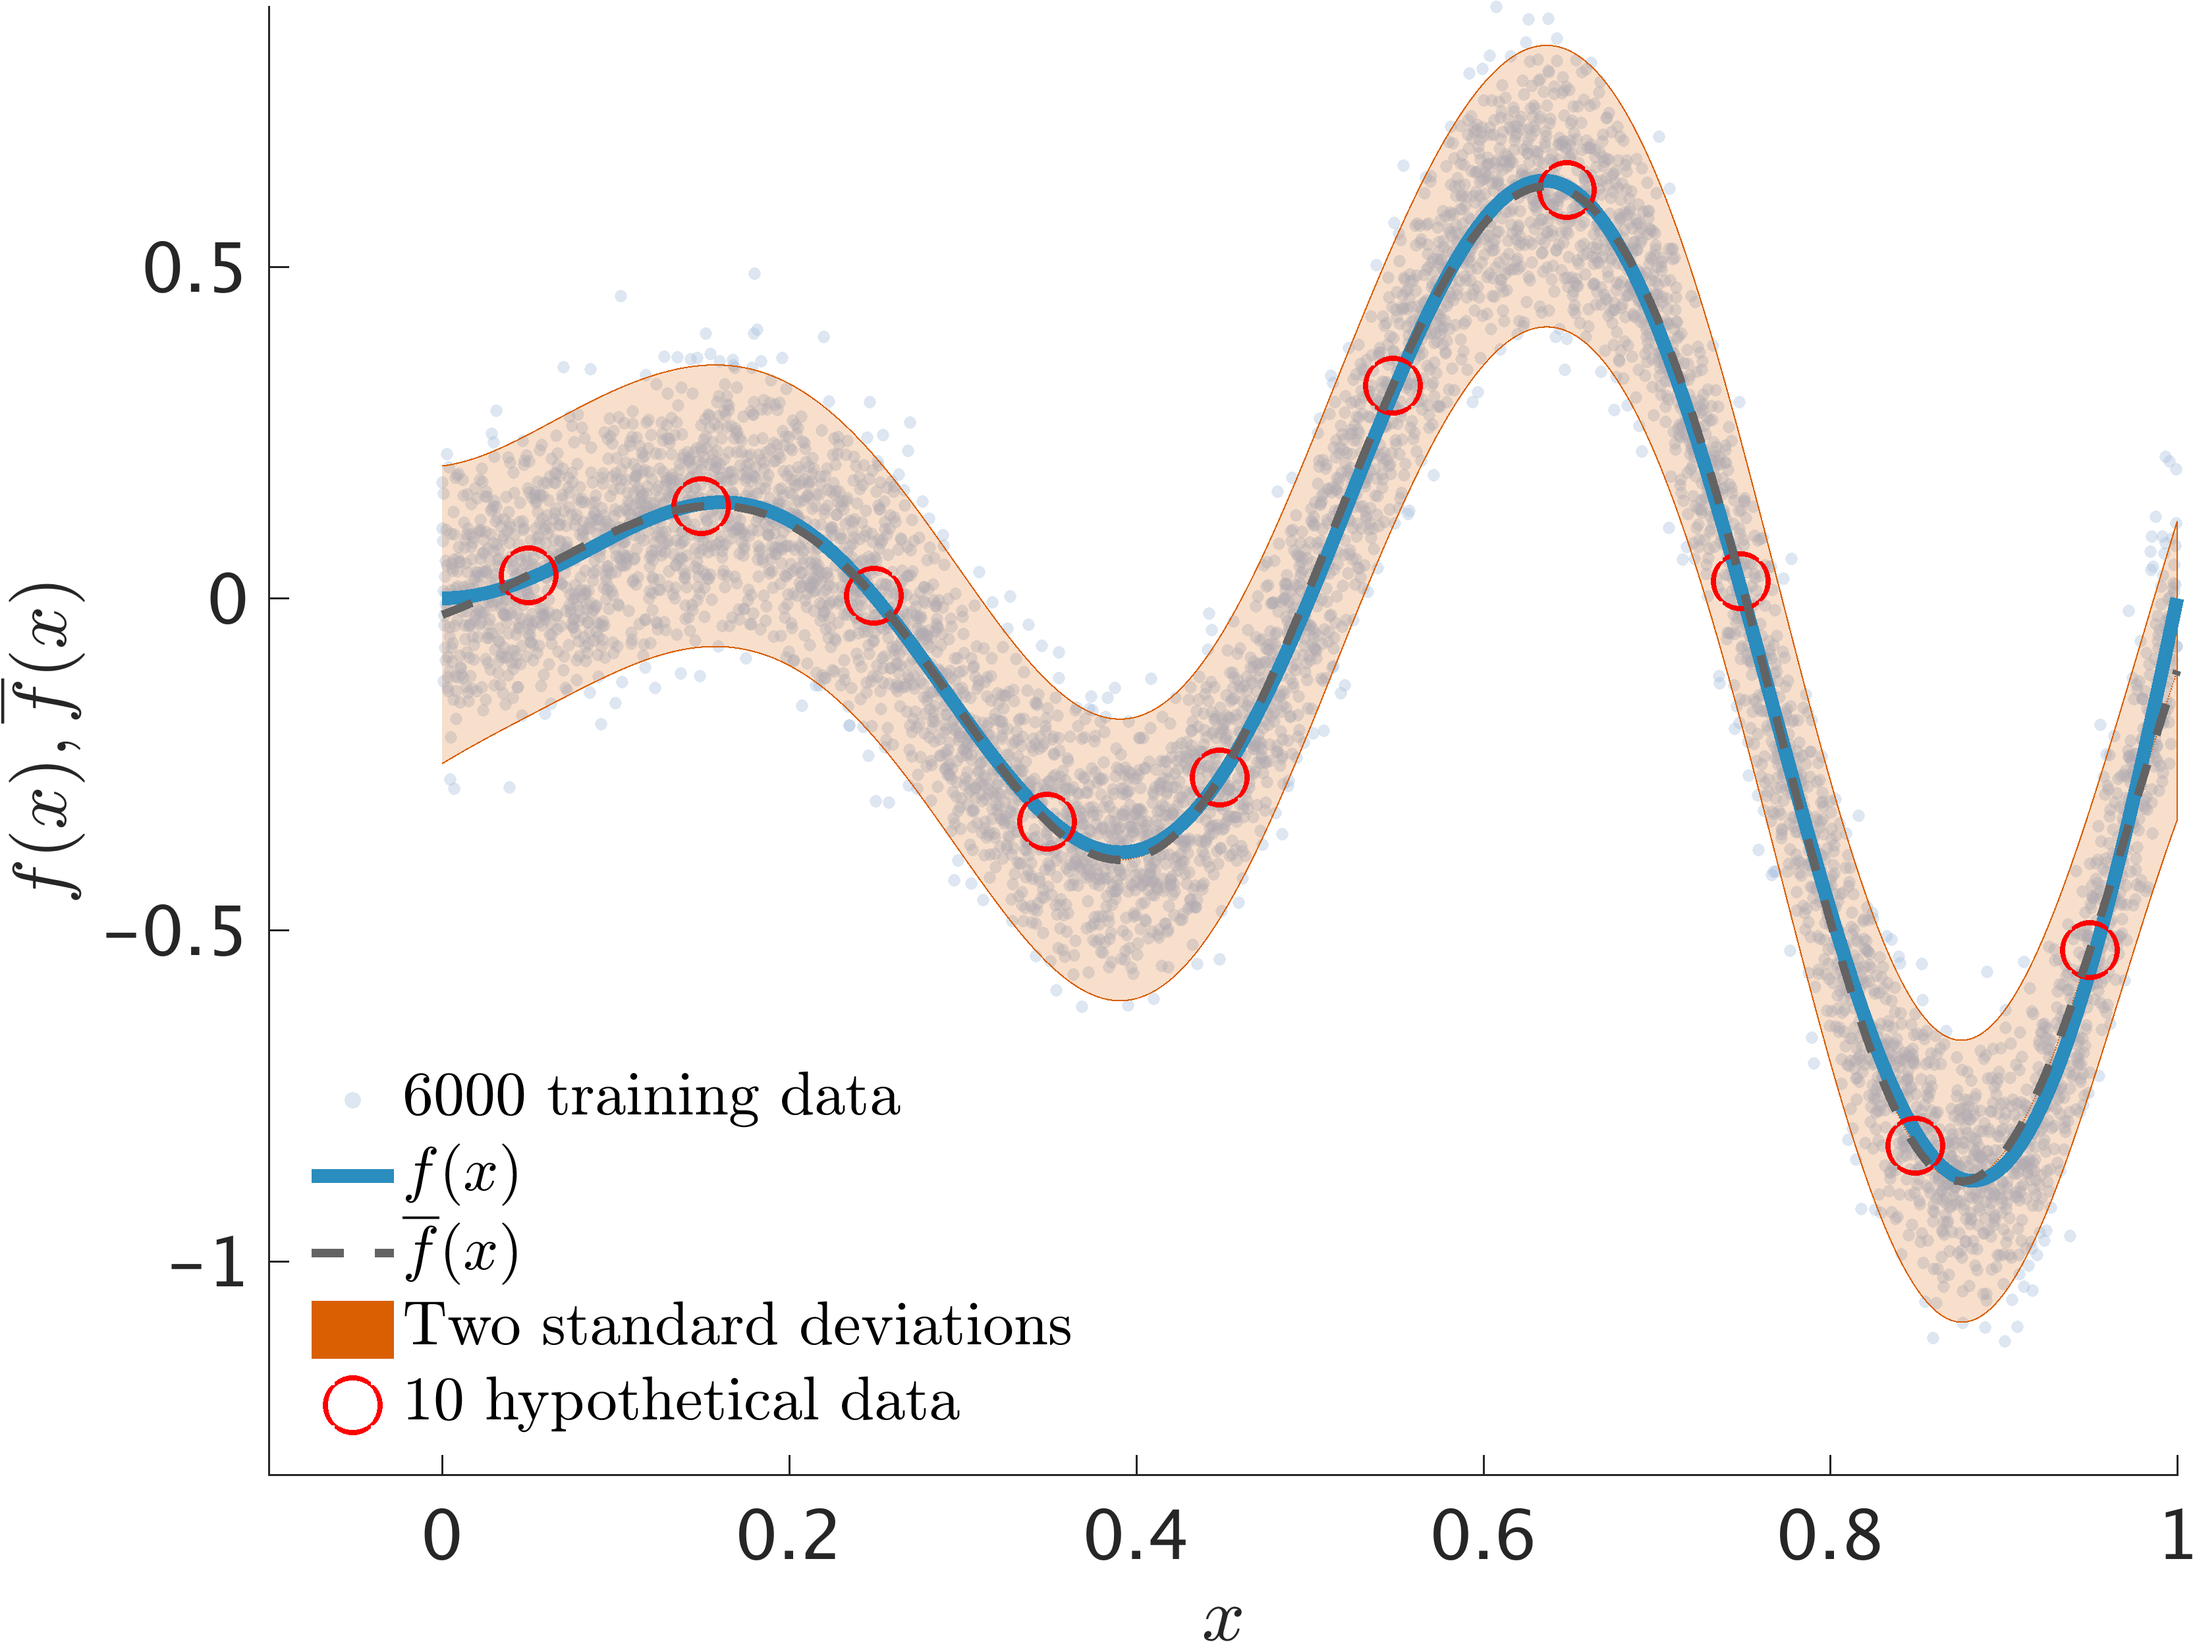
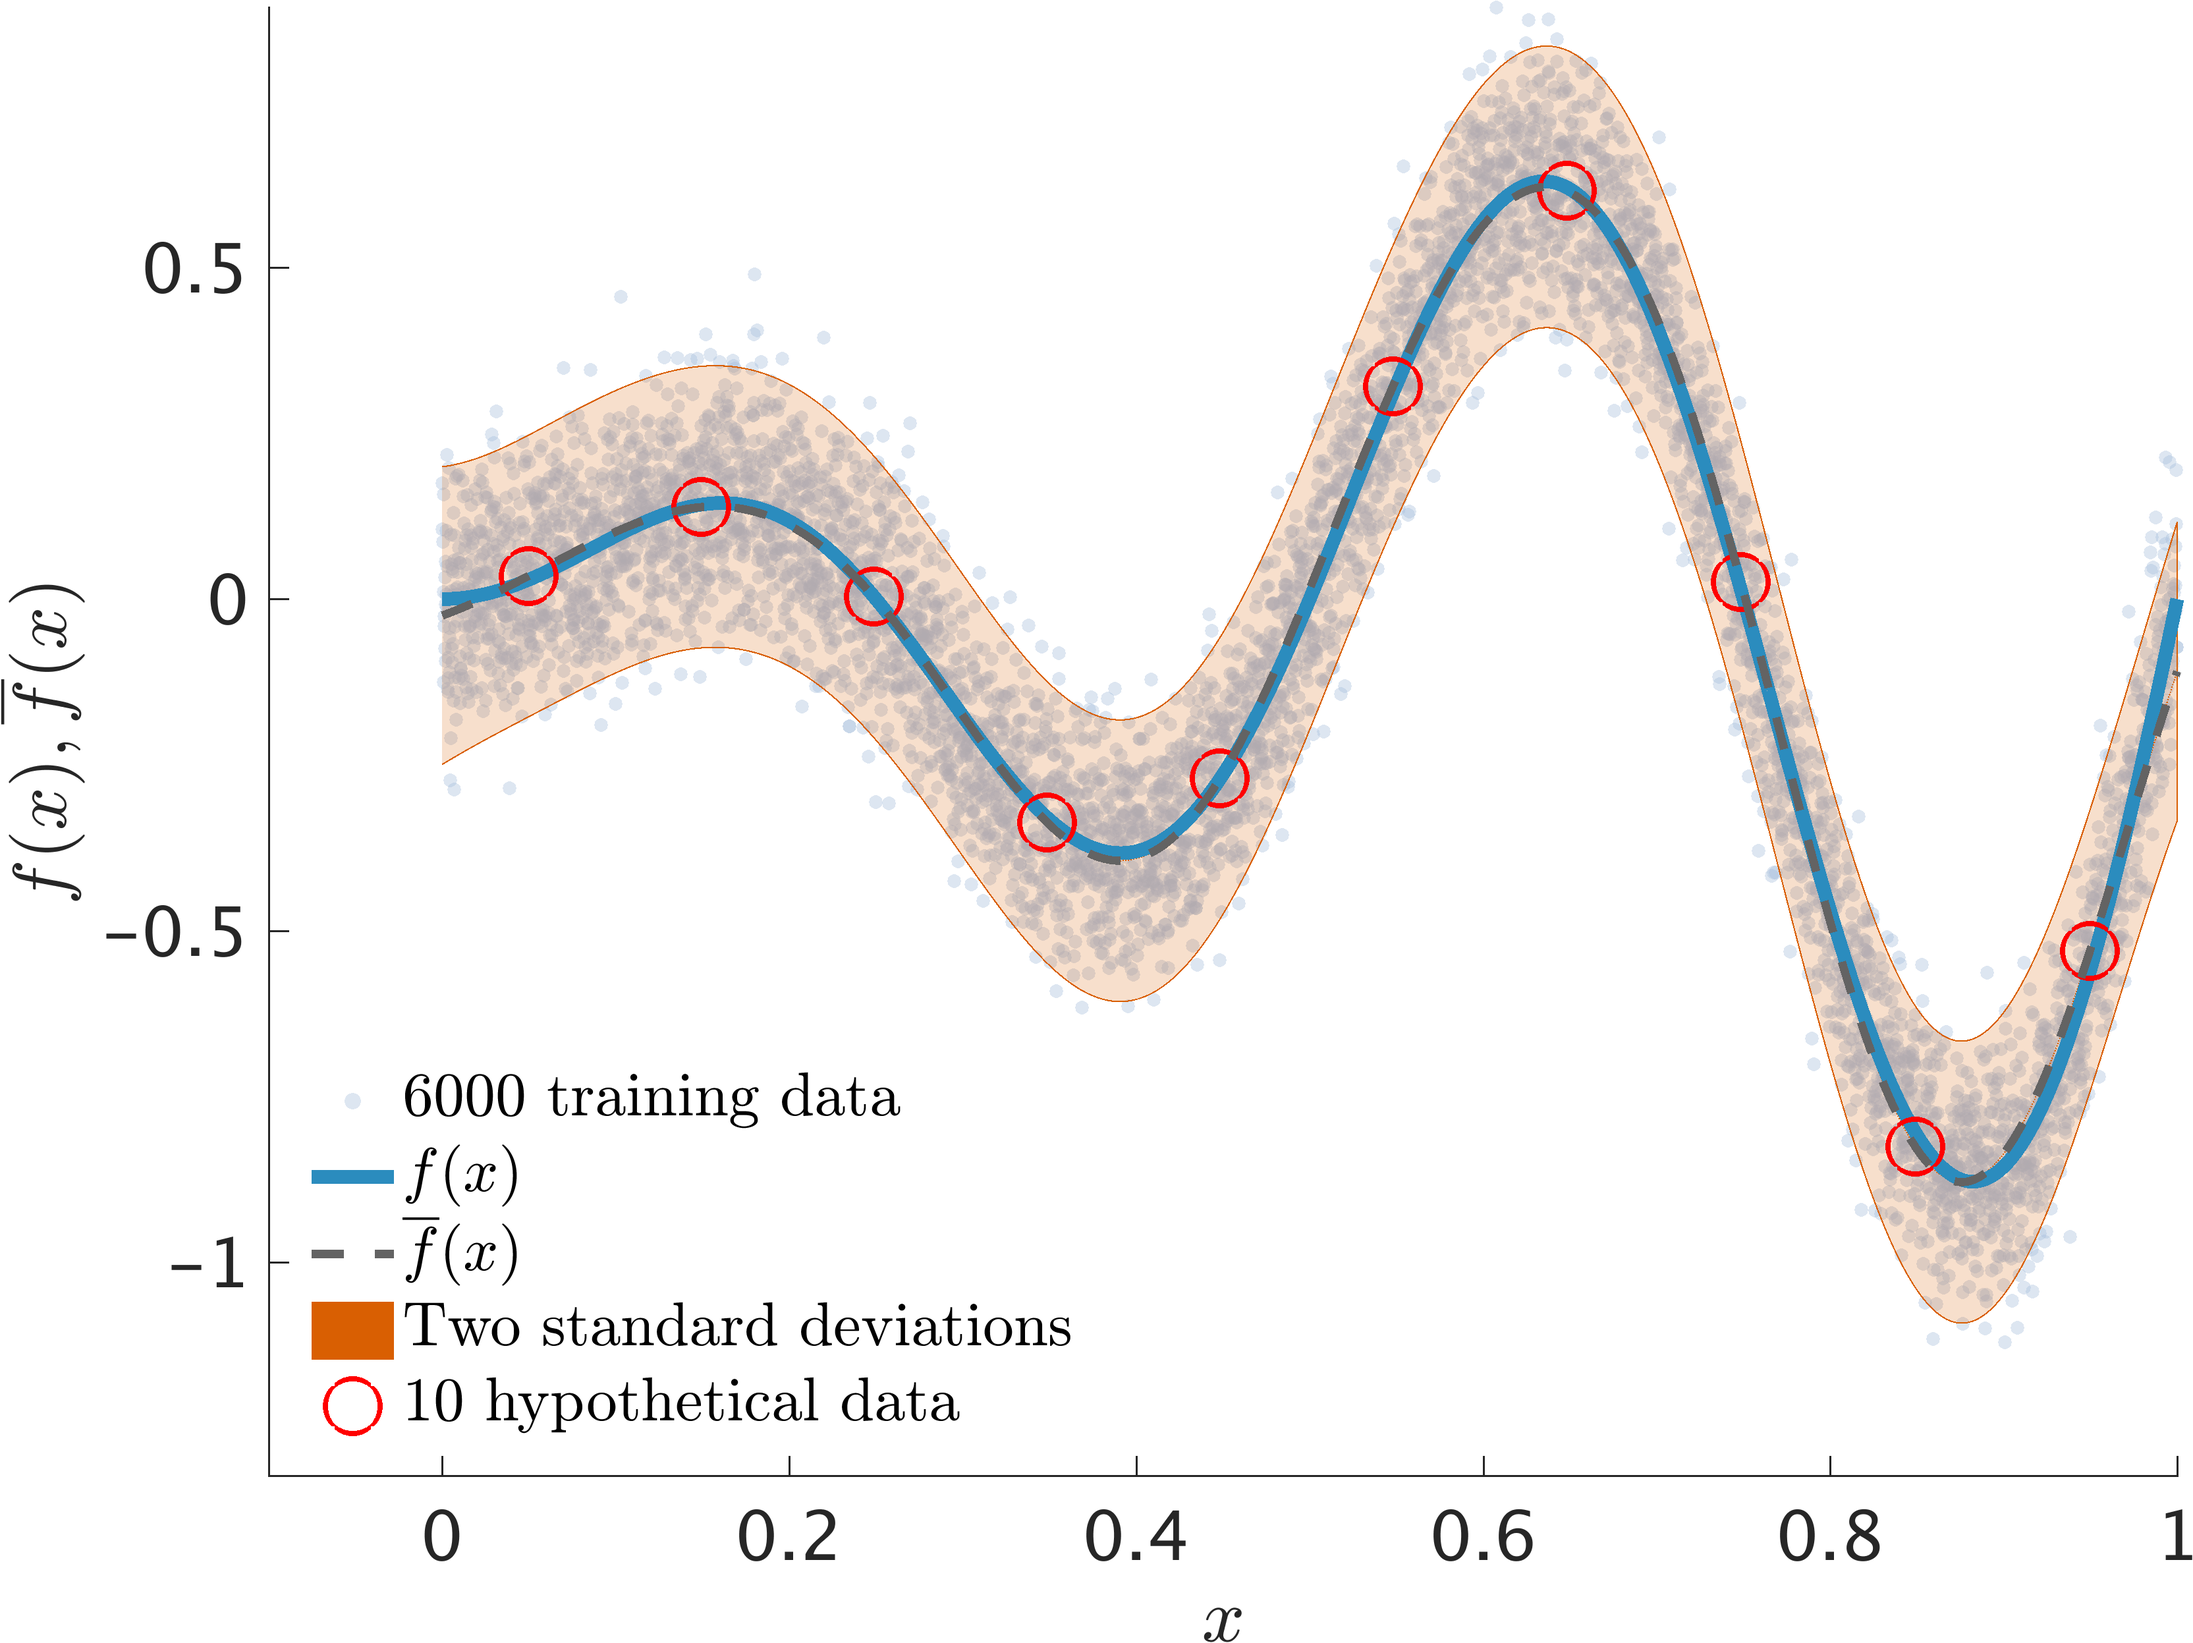
minor plotting edits

diff --git a/OneDomensional_Noisy/Utilities/plot_all.m b/OneDomensional_Noisy/Utilities/plot_all.m
@@ -19,7 +19,7 @@ clear h;
 clear leg;
 hold
 
-h(1) = scatter(X,y,20,'filled', 'MarkerFaceAlpha',3/8,'MarkerFaceColor',c2);
+h(1) = scatter(X,y,25,'filled', 'MarkerFaceAlpha',3/8,'MarkerFaceColor',c2);
 [l,h(4)] = boundedline(X_star, mean_star, 2.0*sqrt(var_star), ':','alpha','cmap','transparency',0.2, color2);
 outlinebounds(l,h(4));
 h(2) = plot(X_star, f_star,'LineWidth',5, 'Color', c1);
